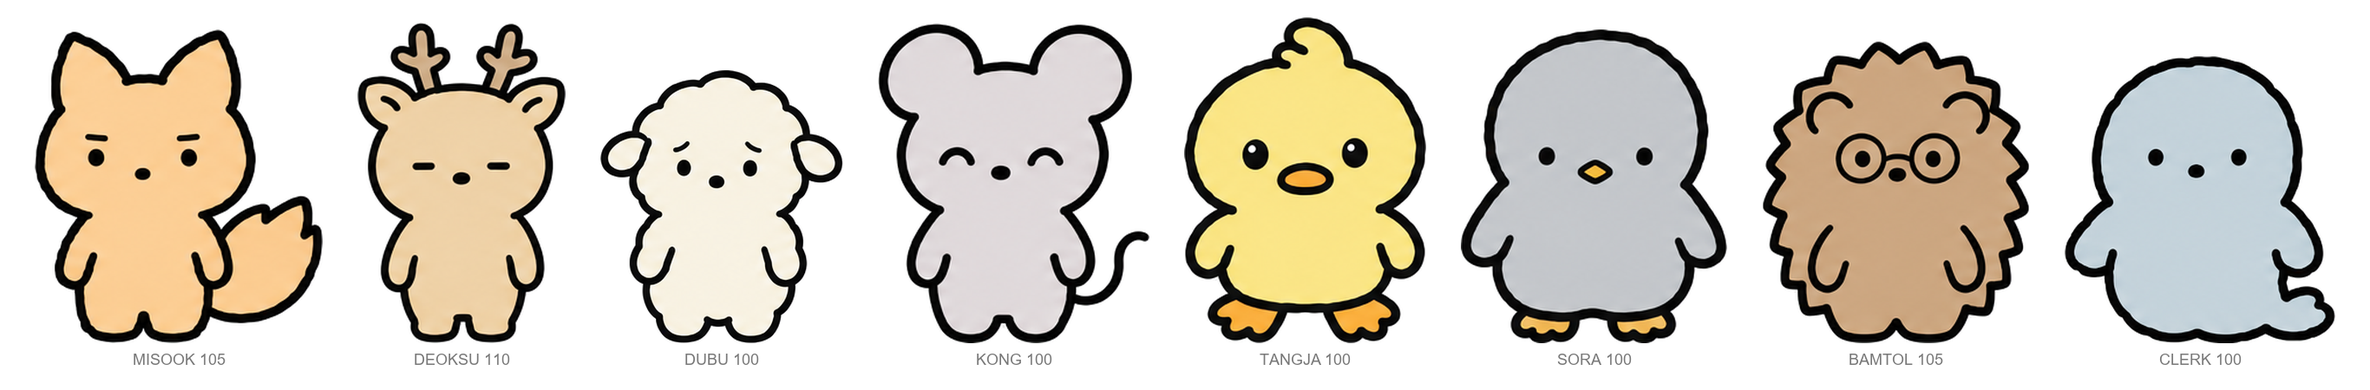
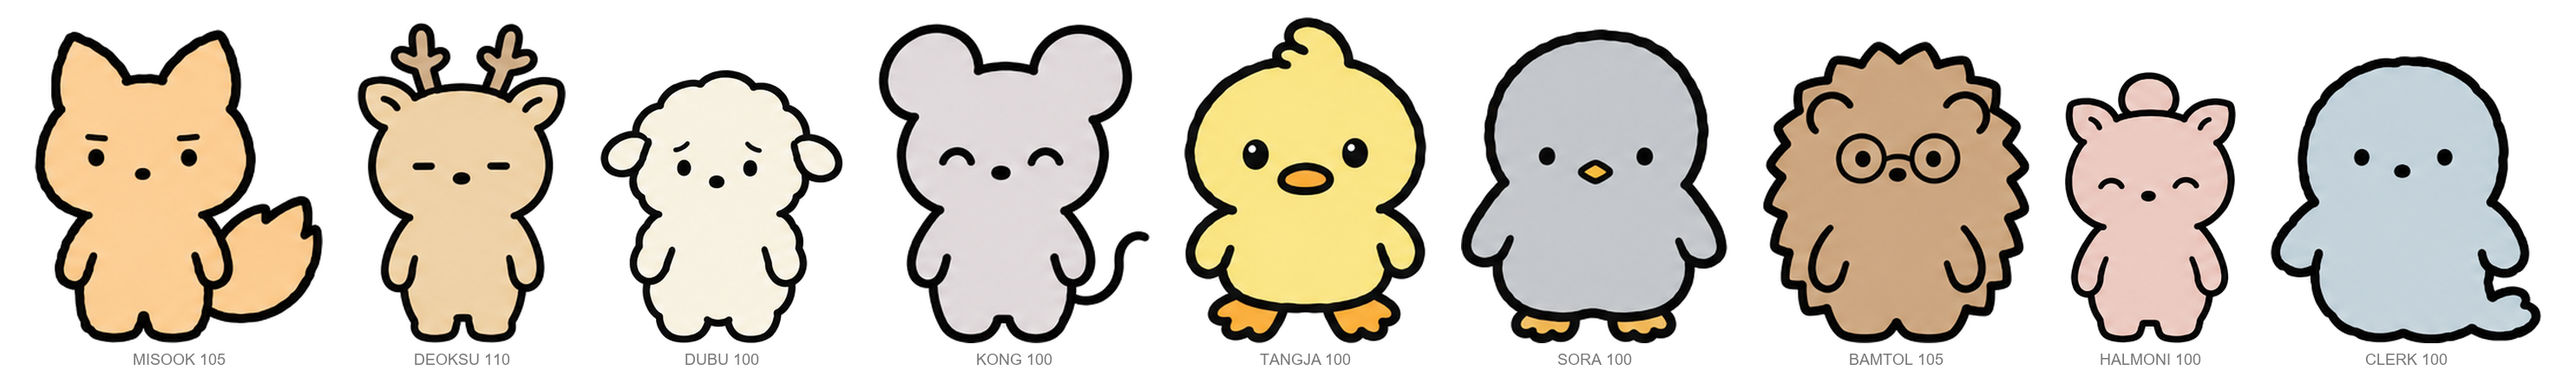
컨셉 전환: 특징 나열형(표지 1 + 특징 컷 5), 할머니 사슴 시트 추가, 불필요 규칙 제거
- CLAUDE.md·make-episode: 장점→단점→마무리 흐름, 위로·저장 문장, 일기체 내레이션, AI 말투 목록, 소품=능력, 재설계 규칙, 감정 기호 중복 금지, 톤 전환 폐지. 표지 부활, 특징 음슴체 한 줄, 먹구름 금지
- props.md 삭제, review_conti.py 검토 관점 교체
- 할머니: 선 샘플·시트(high, #EBCAC1), characters.md 8인, lineup·check_colors 등록, cast-sheets.html·index 갱신

diff --git a/assets/samples/cast-sheets.html b/assets/samples/cast-sheets.html
@@ -3,7 +3,7 @@
 <head>
 <meta charset="utf-8">
 <meta name="viewport" content="width=device-width,initial-scale=1">
-<title>확정 캐스트 시트 7장 + 크기 라인업</title>
+<title>확정 캐스트 시트 8장 + 크기 라인업</title>
 <link href="https://fonts.googleapis.com/css2?family=Gowun+Dodum&display=swap" rel="stylesheet">
 <style>
   body{margin:0;padding:40px 16px 80px;background:#EFEAE2;color:#3A3733;font-family:'Gowun Dodum','Malgun Gothic',sans-serif;line-height:1.6}
@@ -19,12 +19,12 @@
 </head>
 <body>
 <main>
-  <h1>확정 캐스트 시트 7장 + 크기 라인업</h1>
-  <p class="sub">gpt-image-2.5-sunburst · high · 1536×1024 · 7인 + 엑스트라 2장 공통 <b>검정 펠트펜 굵은 선</b>(매끈한 단색, 흔들림은 경로에만): 성격별 기본 얼굴 + 턴어라운드 4 + 코믹 포즈 8. 제작은 정면·측면 선 샘플(<code>&lt;이름&gt;-line-sample.png</code>) 먼저 → 그 샘플 + 깜자 1장만 참조로 시트. 연필 가는 선 안은 시도 후 기각. 모든 시트는 소품 없음(망토 등은 에피소드별 지정).</p>
+  <h1>확정 캐스트 시트 8장 + 크기 라인업</h1>
+  <p class="sub">gpt-image-2.5-sunburst · high · 1536×1024 · 8인 + 엑스트라 2장 공통 <b>검정 펠트펜 굵은 선</b>(매끈한 단색, 흔들림은 경로에만): 성격별 기본 얼굴 + 턴어라운드 4 + 코믹 포즈 8. 제작은 정면·측면 선 샘플(<code>&lt;이름&gt;-line-sample.png</code>) 먼저 → 그 샘플 + 깜자 1장만 참조로 시트. 연필 가는 선 안은 시도 후 기각. 모든 시트는 소품 없음(망토 등은 에피소드별 지정).</p>
 
   <h2>크기 라인업 (시트 FRONT 도를 잘라 합성, 생성 아님)</h2>
-  <img src="../cast/lineup-all.png" alt="7인 크기 라인업">
-  <p class="cap">역할 기준 크기 (주인공 100): 아빠 110 / 엄마 105 / 남친 105 / 동생·친구 100. 실제 동물 크기와 무관하며, 귀·뿔·털에 영향받지 않도록 <b>눈높이→발끝 거리</b>를 기준으로 맞춘다. <code>python scripts/lineup.py all --out …</code></p>
+  <img src="../cast/lineup-all.png" alt="8인 크기 라인업">
+  <p class="cap">역할 기준 크기 (주인공 100): 아빠 110 / 엄마 105 / 남친 105 / 동생·친구·할머니 100. 실제 동물 크기와 무관하며, 귀·뿔·털에 영향받지 않도록 <b>눈높이→발끝 거리</b>를 기준으로 맞춘다. <code>python scripts/lineup.py all --out …</code></p>
   <h2>동시 출연 참조 예시 — 두부 + 미숙</h2>
   <img src="../cast/lineup-example-dubu-misook.png" alt="두부 미숙 라인업" style="max-width:420px">
   <p class="cap">컷에 나오는 캐릭터만 골라 만든다: <code>python scripts/lineup.py dubu misook --out episodes/epNN/ref/lineup.png</code> → 컷 생성 시 <code>--ref</code>로 시트들과 함께 입력.</p>
@@ -50,6 +50,9 @@
   <h2>밤톨 — 남친 · 고슴도치 · 1.1배</h2>
   <img src="bamtol-sheet.png" alt="밤톨 시트">
   <p class="cap">기본 얼굴 = 점 눈 + 브릿지만 있는 동그란 안경. 2행: 팔짱 · 설명 손가락 · 안경 올리기 · 성큼성큼 · 3행: 공벌레 · 놀람(안경 삐뚤) · 생각 · 등 뒤 하트 · 프롬프트 <a href="bamtol-sheet-prompt.txt">bamtol-sheet-prompt.txt</a></p>
+  <h2>할머니 — 사슴 · 뿔 없음 · 쪽 머리</h2>
+  <img src="halmoni-sheet.png" alt="할머니 시트">
+  <p class="cap">기본 얼굴 = 웃는 호 눈 + 쪽 머리. 2행: 내밀기 · 머리 쓰다듬기 · 종종걸음 · 손 흔들기 · 3행: 기쁨 · 권하기 · 걱정 · 귀 기울이기 · 선 샘플 <a href="halmoni-line-sample.png">halmoni-line-sample.png</a> · 프롬프트 <a href="halmoni-sheet-prompt.txt">halmoni-sheet-prompt.txt</a></p>
   <h2>엑스트라 — 고양이 3인조 (주류 무리)</h2>
   <img src="cats-sheet.png" alt="고양이 3인조 시트">
   <p class="cap">핑크 · 라벤더 · 민트, 같은 디자인에 색만 다름 · 각 행: 턴어라운드 4 + 아니꼬운 곁눈질 · 프롬프트 <a href="cats-sheet-prompt.txt">cats-sheet-prompt.txt</a></p>

diff --git a/index.html b/index.html
@@ -32,7 +32,7 @@
 <body>
 <main>
   <h1>작은 힘에도 작은 책임은 따른다</h1>
-  <p class="sub">MBTI 유형별 성격적 단점을 "초능력"으로 재해석하는 일상 힐링 인스타툰.</p>
+  <p class="sub">MBTI 유형별 성격적 단점을 "초능력자 특징"으로 나열해 공감을 일으키는 인스타툰. 표지 1 + 특징 컷 5.</p>
 
   <h2>캐릭터</h2>
   <a class="card" href="assets/cast.html">
@@ -40,8 +40,8 @@
     <span>두부·미숙·덕수·콩·탱자·소라·밤톨 · 라인업 현재/제안 컬러</span>
   </a>
   <a class="card" href="assets/samples/cast-sheets.html">
-    <b>확정 캐스트 시트 7장 + 엑스트라 2장 + 크기 라인업</b>
-    <span>두부·미숙·덕수·콩·탱자·소라·밤톨 (굵은 펜선 · 성격별 기본 얼굴 + 턴어라운드 4 + 코믹 포즈 8) + 고양이 3인조·점원 · 크기 라인업</span>
+    <b>확정 캐스트 시트 8장 + 엑스트라 2장 + 크기 라인업</b>
+    <span>두부·미숙·덕수·콩·탱자·소라·밤톨·할머니 (굵은 펜선 · 성격별 기본 얼굴 + 턴어라운드 4 + 코믹 포즈 8) + 고양이 3인조·점원 · 크기 라인업</span>
   </a>
 
   <a class="card" href="assets/samples/dubu-sheet.html">

diff --git a/assets/samples/make_cast_prompts.py b/assets/samples/make_cast_prompts.py
@@ -1,4 +1,4 @@
-"""조연 6인 선 샘플·시트 프롬프트 생성.  python assets/samples/make_cast_prompts.py
+"""조연 선 샘플·시트 프롬프트 생성.  python assets/samples/make_cast_prompts.py
 산출: assets/samples/<이름>-line-sample-prompt.txt, <이름>-sheet-prompt.txt
 """
 import os
@@ -10,7 +10,7 @@ LINE = """LINE QUALITY (most important):
 - Flat fill, no shading, no gradients, no paper texture, no noise."""
 
 SAMPLE = """Reference images:
-- The FIRST image is the CHARACTER to draw: {who}. Reproduce this exact body design, but with the default face described below.
+- {sample_head}
 - The SECOND image is a STYLE reference only (the Korean instatoon dog "Kkamja"): copy its line quality - but NOT its character or color.
 
 {line}
@@ -152,9 +152,31 @@ STARTLED (leaning back, glasses tilted slightly askew on the face, eyes as bigge
 THINKING (sitting on the floor, chin resting on one hand, elbow on knee, dot eyes behind the glasses, one very short line above the head);
 SOFT MOMENT (standing stiffly facing front with both hands behind the back, eyes as closed upward arcs behind the glasses, one tiny pale pink outline heart floating low behind his back).""",
 ),
+"halmoni": dict(
+    who="a dusty-rose grandmother deer, Dubu's grandma (no antlers, small hair bun)",
+    sample_head="The FIRST image shows a deer character from this project (Deoksu, the dad). Use it ONLY for the deer body grammar (potato body, small upright ears, tiny tail, dot nose) and the line quality. Draw a DIFFERENT character described below: the grandmother - NO antlers, different color, a hair bun, a slight stoop.",
+    side_note="one closed upward-arc eye visible, small upright ear, the round hair bun on top of the head, back slightly rounded",
+    design="""Grandma deer design (identical in all figures):
+- dusty rose #EBCAC1 body, ONE solid color everywhere including face, ears and the hair bun. No spots, no white belly, no darker muzzle
+- 2-head-tall potato body, stubby limbs, tiny tail, small upright deer ears, and NO ANTLERS at all. On top of the head one small round HAIR BUN (a simple circle in the body color with a black outline, sitting between the ears), exactly the same bun in every figure
+- posture: back slightly rounded, shoulders soft, hands often held together in front - a small, gentle old lady
+- DEFAULT FACE: eyes drawn as two closed upward-curving black arcs set wide apart (a warm, benevolent smile), one small dark dot nose. NO MOUTH, NO BLUSH, no eyelashes, no glasses, no clothes, no props
+- The smiling arc eyes are her default in almost every figure. Only when a caption says so the eyes open into small round dots (worry) or ">.<"
+- personality: the grandmother. Endlessly kind, keeps giving more, cannot be refused. Her warmth is unstoppable""",
+    row2="""OFFERING (leaning forward with both hands held out in front, palms up, as if handing something over, smiling arc eyes, one tiny sparkle);
+HEAD PAT (reaching one hand out and slightly down as if patting a grandchild's head, other hand behind the back, arc eyes);
+SHUFFLING (seen from the side, walking with small careful steps, back rounded, hands clasped in front, two short motion lines by the feet);
+WAVING GOODBYE (standing facing front, one hand raised high waving with small motion lines, other hand clasped at the chest, arc eyes).""",
+    row3="""DELIGHTED (both hands clasped together at the chest, arc eyes, three small sparkles around the head);
+INSISTING (leaning forward, one hand gently pushing forward at chest height as if pressing something on someone, arc eyes, short motion lines by the hand);
+WORRIED (eyes opened into small round dots, both hands held together at the chest, body leaning slightly forward, one sweat drop);
+LISTENING (head tilted to one side, one hand cupped behind an ear, arc eyes, one tiny heart floating beside the head).""",
+),
 }
 
 for n, c in CAST.items():
+    c = dict(c)
+    c.setdefault("sample_head", f"The FIRST image is the CHARACTER to draw: {c['who']}. Reproduce this exact body design, but with the default face described below.")
     with open(os.path.join(HERE, f"{n}-line-sample-prompt.txt"), "w", encoding="utf-8") as f:
         f.write(SAMPLE.format(line=LINE, **c))
     with open(os.path.join(HERE, f"{n}-sheet-prompt.txt"), "w", encoding="utf-8") as f:

diff --git a/scripts/lineup.py b/scripts/lineup.py
@@ -3,7 +3,7 @@
 
   python scripts/lineup.py dubu misook --out episodes/ep02/ref/lineup.png
   python scripts/lineup.py all --out assets/cast/lineup-all.png
-이름: dubu misook deoksu kong tangja sora bamtol clerk (고양이 3인조 시트는 3행이라 미지원)
+이름: dubu misook deoksu kong tangja sora bamtol halmoni clerk (고양이 3인조 시트는 3행이라 미지원)
 """
 import argparse, os
 import numpy as np
@@ -17,9 +17,10 @@ CAST = {  # 이름: (시트, 상대 크기, 캡션)
     "tangja": ("assets/samples/tangja-sheet.png", 1.0, "TANGJA 100"),
     "sora":   ("assets/samples/sora-sheet.png",   1.0, "SORA 100"),
     "bamtol": ("assets/samples/bamtol-sheet.png", 1.05, "BAMTOL 105"),
+    "halmoni": ("assets/samples/halmoni-sheet.png", 1.0, "HALMONI 100"),
     "clerk":  ("assets/samples/clerk-sheet.png",  1.0, "CLERK 100"),
 }
-ORDER = ["misook", "deoksu", "dubu", "kong", "tangja", "sora", "bamtol", "clerk"]
+ORDER = ["misook", "deoksu", "dubu", "kong", "tangja", "sora", "bamtol", "halmoni", "clerk"]
 BASE_H = 210  # 크기 1.0 캐릭터의 얼굴 기준선→발끝 픽셀 거리 (귀·뿔·털 제외, 역할 기준 크기)
 
 

diff --git a/scripts/check_colors.py b/scripts/check_colors.py
@@ -1,7 +1,7 @@
 """생성된 컷에서 캐릭터 바디 색이 시트 hex와 얼마나 다른지 잰다.
 
   python scripts/check_colors.py episodes/ep05/img/cut4.png dubu bamtol
-이름: dubu misook deoksu kong tangja sora bamtol clerk (assets/characters.md 1절의 hex)
+이름: dubu misook deoksu kong tangja sora bamtol halmoni clerk (assets/characters.md 1절의 hex)
 출력: 캐릭터별 실제 우세 색과 시트 hex의 채널 최대 차. ±12 안에 큰 영역이 없으면 색이 틀어진 것.
 """
 import sys
@@ -10,7 +10,7 @@ from PIL import Image
 
 SHEET = {
     "dubu": "#F6F2E6", "misook": "#F6CA9E", "deoksu": "#EACEAA", "kong": "#DED6DA",
-    "tangja": "#F5E08C", "sora": "#C2C6CA", "bamtol": "#C9A582", "clerk": "#BCD0DA",
+    "tangja": "#F5E08C", "sora": "#C2C6CA", "bamtol": "#C9A582", "halmoni": "#EBCAC1", "clerk": "#BCD0DA",
 }
 TOL = 12  # 이 안의 픽셀만 그 캐릭터로 봄 (더 넓히면 이웃 캐릭터·회색을 집는다)
 

diff --git a/.claude/skills/make-episode/SKILL.md b/.claude/skills/make-episode/SKILL.md
@@ -1,92 +1,55 @@
 ---
 name: make-episode
-description: 「작은 힘에도 작은 책임은 따른다」 에피소드 1편 제작 — MBTI 유형의 단점을 초능력으로 재해석한 4~7컷 캐러셀. 콘티 → 컷 이미지 생성 → 텍스트 합성 → 프리뷰 → 캡션. "에피소드 만들어", "EP.02", "INTJ 편", "콘티 짜줘", "컷 생성" 등에 사용.
+description: 「작은 힘에도 작은 책임은 따른다」 에피소드 1편 제작 — MBTI 유형의 단점을 "초능력자 특징"으로 나열한 표지 1 + 특징 컷 5 = 6장 캐러셀. 특징 리스트 → 컷 이미지 생성 → 텍스트 합성 → 프리뷰 → 캡션. "에피소드 만들어", "EP.02", "INTJ 편", "콘티 짜줘", "컷 생성" 등에 사용.
 ---
 
 # make-episode
 
-입력: MBTI 유형 1개 (+ 선택: 다룰 단점 특징, 폰트 지정). 산출물은 `episodes/epNN/`.
+입력: MBTI 유형 1개 (+ 선택: 다룰 특징, 폰트 지정). 산출물은 `episodes/epNN/`.
 
 ## 1. 기획 규칙
 
-규칙은 검문소지 출발점이 아니다. 웃긴 그림 하나에서 시작해 규칙으로 걸러낸다.
-
-- **핵심 컷 먼저 (내레이션 쓰기 전).** ① 이 유형이 가장 찔리는 **작은 구체 상황** 후보 10개를 나열하고 가장 작고 일상적인 것 하나를 고른다 (미용실 "이 정도면 될까요?"에 "네", 잘못 온 배달을 그냥 먹기, 점원의 "같이 사면 할인"에 열리는 지갑 급. 가족 심부름·큰 부탁은 밋밋하다). ② 그 상황을 한 단계 과장한 **그림 1장**을 정한다 — 이것이 공유 컷이다. ③ 제목·소품·핵심 상황·핵심 그림 네 가지를 **표보다 먼저 사용자에게 보고해 승인받은 뒤** 나머지 컷을 붙인다. 6컷을 다 쓰고 통째로 버리는 일을 막는 관문이다.
-- **소품 시험.** 소품은 능력 그 자체여야 한다(학사모=졸업, 이불=집순이). 소품을 지웠을 때 바뀌는 컷이 하나도 없으면 장식이므로 소품과 제목을 다시 잡는다.
-- **재설계 규칙.** 같은 콘티에 컨셉 수준의 지적이 2번 이상 오면 문제 컷만 갈아 끼우지 않는다 — 핵심 컷 선정부터 다시 시작한다. 패치를 거듭한 콘티는 규칙엔 맞고 재미는 없는 짜깁기가 된다.
-- **제목** = 그 유형의 통용되는 단점을 능력처럼 바꾼 후킹 카피 = 초능력 이름. 형식 `[…] 초능력`. 예: INFP 「알고 싶지 않은 마음까지 읽을 수 있는 초능력」. **표지는 만들지 않는다** — 1컷 내레이션 안에 초능력 이름을 그대로 넣어 바로 시작하고, 합성 때 그 이름만 포인트 컬러 볼드로 강조한다. 시리즈명은 1컷 상단에 작게 `- 작은 힘에도 작은 책임은 따른다 -`(앞뒤 하이픈)로 넣는다.
-- **MBTI는 작품 어디에도 쓰지 않는다** (컷·캡션·해시태그). 유형은 기획 입력값일 뿐이다.
-- 내용은 해당 유형 독자가 "이거 나잖아"라고 느껴야 한다. 유형 밈이 아니라 **구체적 상황**(약치기그림식)으로 쓴다.
-- **내레이션은 두부(20대 여성)가 일기장에 쓰는 자기 관찰이다.** 독자에게 설명하는 글이 아니라 자기한테 하는 말 — 쉬운 말, 짧은 문장, 살짝 귀엽고 스스로를 놀리는 투. **내용은 그날의 사건이 아니라 반복되는 습관**("부탁 받으면 일단 고개부터 끄덕인다", "왜 맨날 이러지"). 어미는 현재형·습관형(`~한다`, `~하더라`, `~하게 된다`, `~할 때마다`)과 혼잣말(`아 근데`, `왜 그랬지`, `뭐 어떡해`)을 섞는다. **과거형 특정 사건(`그날`, `어제`, `~했다`)은 쓰지 않는다** — 남의 일기가 되고 그림이 삽화로 전락한다. 그 습관의 구체적인 한 장면은 그림과 대사가 맡는다. 예외는 마지막 컷의 상대에게 던지는 한마디. 귀여움은 애교 어미(`~용`)나 `ㅠㅠ`가 아니라 작은 디테일(베개 자국, 눌린 털)·솔직한 투정·자기 놀림에서 나온다. 1인칭 "나는"만 쓰고 "우리는"·3인칭 설명("이 유형은 …")은 쓰지 않는다. **컷당 2줄 고정**(긴 줄은 합성 시 자동 축소). **캐릭터 이름 금지**(친구·엄마·동생 등 관계로 지칭; 이름은 대사·CTA에서만). **느낌표 금지** — 감정의 높낮이는 대사가 맡는다. CTA만 독자에게 말한다.
-- **속마음 대사를 적극 쓴다.** 필수는 아니지만 내레이션만으로 끝내는 컷을 기본값으로 두지 않는다 — 상황이 있는 컷(2–6)은 캐릭터 옆에 짧은 속마음 한 줄을 붙일 수 있는지 먼저 살핀다. 내레이션은 상황을, 속마음은 그 순간의 감정·본심을 맡아 둘이 겹치지 않게 한다. 조연 대사도 같은 방식으로 캐릭터 옆에 놓는다.
-- **이모지 금지** (컷·캡션·CTA 전부).
-- **4~7컷 = 컷당 1장**. 컷 수는 이야기 길이에 맞춰 정하고 콘티 상단에 적는다 — 7을 채우려고 늘리지 않는다.
-
-| 컷 | 역할 | 비고 |
-|---|---|---|
-| 1 | 초능력 설명 — 내레이션 2줄 안에 초능력 이름을 통째로 넣는다. 예: "나에겐 어떤 취미든 / 3일 만에 졸업할 수 있는 초능력이 있다." | 초능력 이름만 포인트 컬러 볼드, 나머지는 담담한 내레이션 |
-| 2–(끝-1) | 흐름만 고정: **장점(능력이 남에게 좋게 작용, 조연이 수혜자) → 단점 첫 등장 → 단점 심화**. 컷 배분은 에피소드마다 정한다. 장점은 보통 1–2컷이면 충분하다. 상황 컷과 속마음 컷의 순서도 자유. | **단점 첫 등장 컷 = 공유 유도 컷.** 가장 구체적이고 찔리는 상황, "이거 너잖아" 하고 친구에게 보내게 되는 컷. 여기에 가장 공을 들인다 |
-| 끝 | 마무리 = **저장 유도 문장** + 태그 CTA | "그래도 그 능력 덕분에 누군가는…" 한 줄 위로 → "당신 옆의 초능력자를 태그해 주세요". **앞 컷에서 이미 보여 준 내용의 반복 금지** — 반전이나 새로 드러나는 사실로 |
-
-톤 전환: 장점 구간 밝음 → 단점 구간 저채도 → 마지막 컷 망토 + 포인트 컬러 복귀.
-
-- **내레이션의 비유는 실제 경험을 정확히 옮기는 것만.** 코믹한 묘사·비유는 내레이션에서도 좋다(EP.03 "약속 파토는 총잡이들의 결투 같은 거다" = 둘 다 파토 내고 싶은데 누가 먼저 말하나 눈치 보는 순간을 그대로 옮김). 반면 초능력 이름의 말장난이나 발동 방식을 억지로 이어 붙인 컨셉("'싫어'는 '시'까지만 나온다", "번역기에 끄는 버튼이 없다")은 누구도 겪어 본 적 없는 상황이라 웃기지도 찔리지도 않는다. 비유를 쓰기 전에 "이 유형 독자가 실제로 이 순간을 이렇게 느끼는가"를 먼저 확인하고, 아니면 비유 없이 느낀 그대로 쓴다. **비유는 한 컷 안에서 끝낸다** — 다음 컷의 내레이션·대사·마무리 위로까지 같은 비유로 끌고 가지 않는다(EP.07 초안 "손이 올라간다→낙찰→발→손이 저절로" X). 나머지 컷은 비유 없는 실제 상황으로.
-- **기본 톤은 코믹.** 공감은 웃음 뒤에 따라오게 한다 — 단점은 처량하게가 아니라 **과장·자폭 개그**로 그린다(상황을 한 단계 더 밀어붙이기, 속마음의 자기 변명·궤변, 조연의 무표정 리액션·한마디 태클). 컷마다 웃음 포인트가 하나씩 있는지 보고, 진지한 문장은 마지막 컷 위로 한 줄에만 허용한다. 단점 구간의 마지막 컷도 우울로 마감하지 않고 한 번 더 자폭으로 끝낸다(EP.06 6컷 창가 먹구름 X).
-
-
-- **콘티 보고.** 콘티를 짜면 채팅에 컷별 [장면 / 내레이션 / 대사(속마음)] 세 열을 모두 담은 표로 보고한다 — 파일 경로만 알리거나 일부 열을 생략하지 않는다.
-- **콘티 검증 (1회, 프롬프트 작성 전).** 콘티를 다 쓴 뒤 장면·내레이션·대사 세 열을 **각각 따로** 1→끝으로 이어 읽는다.
-  - 내레이션만: 컷마다 한 줄로 요약해 같은 요약이 둘이면 하나를 지우거나 다음 단계로 밀어붙인다. 연결어(하지만·사실·그런데·…지만)가 실제 반전을 담는가. 단점은 능력의 반대가 아니라 같은 능력이 잘못된 자리에서 발동한 것이므로, 3→4가 반대 관계가 아닌데 역접으로 잇거나 3 끝 `…지만`과 4 첫머리 `하지만`이 겹치면 억지 역접이다. 소리 내 읽고 **"20대 여자애가 일기장에 진짜 이렇게 쓰나"**를 묻는다 — 아니면 그 줄을 다시 쓴다. 특히 아래 패턴은 현학적·AI 문장으로 읽혀 독자가 불쾌해한다:
-    - 한자어·추상명사로 상황을 요약 `자비를 베풀다`, `명예롭게 패배`, `나중 문제다`, `손해를 자처`, `선택을 후회`
-    - 격언·정의 어미 `~는 것이다`, `~일 뿐이다`, `~는 법이다`; 짧은 단정문 연속 `값을 듣기도 전에 손이 먼저 올라간다.`
-    - 문어체 명사구 `우는 친구의 전화`, `부탁을 받는 순간` → 일어난 일로 풀어 쓴다 `친구가 울면서 전화했다`
-    - 재정의 위로 `A는 B가 아니라 C다` (예: "지는 게 아니라 시간을 주는 거야"), `~라는 거 알죠?`
-    - 자기 진단 명사화 `나는 ~한 사람이라`, `~하는 나`
-    - 깨달음 서술 `~란 걸 깨닫고`, `~인 셈이다`, `~일지도 모른다`
-    - 감성 부사 `문득·조용히·천천히·그저·어쩌면·작은`, 추상어 마무리 `마음·온기·속도·시간·자리`
-    - 능력을 서술자가 논평 `이 능력은 오늘도 정확히 발동한다`
-    - 번역투 `~에 있어서`; 같은 어미 3연속
-    대신 **그날 있었던 일과 그때 든 생각**을 일기처럼 쓴다. X "내가 피곤한 건 나중 문제다." → O "내일 아침 일찍인데 뭐, 그건 내일의 내가 하겠지." / X "먼저 총을 맞는 사람이 명예롭고 즐겁게 패배하는 것이다." → O "먼저 맞는 쪽이 지는 건데 이상하게 기분은 좋다." 마지막 컷 위로도 정리·격언이 아니라 상대에게 던지는 말 한마디로.
-  - 대사만: 내레이션과 같은 정보를 반복하지 않는가, 그 컷의 펀치를 대사가 맡는가. 그 캐릭터가 그 순간 실제로 내뱉을 법한 길이·어투인가 — 완결된 문장보다 짧은 반응("아 진짜?", "…또?")이 자연스러운 자리에 설명조 대사가 있으면 줄인다.
-  - 장면만: 내레이션 없이 그림만으로 상황이 성립하는가, 라벨이 내레이션과 중복되지 않는가. **내레이션을 가리고 그림만 봐서 웃음 포인트가 없는 컷은 삽화다** — 과장 장치를 넣거나 컷을 버린다. 단점 구간 컷 중 최소 2컷은 그림 자체가 웃겨야 한다.
-  - 문제 컷은 고친 뒤 넘어간다.
-- **독립 리뷰 (Codex, 자체 검증 뒤 1회).** `python scripts/review_conti.py epNN` → 다른 모델이 콘티·규칙·이전 편을 읽기 전용으로 검토해 `episodes/epNN/review.md`를 쓴다 (약 5~10분, 작성 세션의 판단은 넘기지 않는다). 항목마다 **반영 또는 기각 사유**를 정해 콘티를 고친 뒤 프롬프트로 넘어간다. 기각한 항목은 review.md 해당 줄 끝에 `→ 기각: 이유`를 붙인다. 리뷰 파일은 커밋한다.
+- **구성 = 표지 1 + 특징 컷 5 = 6장.** 표지: 제목(초능력 이름) + 두부 그림. 특징 컷: 번호 + 특징 한 줄 + 그 특징을 한 단계 과장한 그림 1장. 컷끼리 서사로 잇지 않고 나열한다. 순서는 가장 보편적으로 찔리는 것부터, 설명이 필요한 것은 뒤로.
+- **제목** = 그 유형의 통용되는 단점을 능력처럼 바꾼 후킹 카피. 형식 `[…] 초능력자 특징`. 예: 「No를 Yes로 바꿔 말하는 초능력자 특징」. 핵심 구절만 포인트 컬러 볼드.
+- **특징 문장**은 짧은 음슴체 한 줄 (`보험 100개 있음`, `스팸 전화 못 끊음`). 캐릭터 이름 금지(할머니·동생·친구 등 관계어), 느낌표·이모지 금지. MBTI는 작품 어디에도 쓰지 않는다.
+- **그림이 펀치다.** 특징 문장을 가리고 그림만 봐서 웃기지 않으면 삽화다 — 과장 장치를 넣거나 특징을 바꾼다. 조연은 그 특징이 드러나는 상황을 공급한다(콩 = 눈치 없는 한마디, 탱자 = 오지랖, 할머니 = 거절 못 하는 호의).
+- **대사·속마음**은 캐릭터 옆에 짧게 (`중요한 전화야?`, `재밌어요`). 특징 문장과 같은 정보를 반복하지 않는다.
+- **콘티 보고.** 채팅에 컷별 [장면 / 특징 / 대사] 세 열을 모두 담은 표로 보고한다 — 열 생략 금지. 표 승인 후 생성.
+- **독립 리뷰 (Codex, 1회).** `python scripts/review_conti.py epNN` → `episodes/epNN/review.md`. 항목마다 반영 또는 `→ 기각: 이유`를 붙이고 커밋.
 
 ## 2. 이미지 규칙
 
-- 생성은 **캐릭터 + 소품만**. 프롬프트 끝에 항상 `No text, no letters, no speech bubbles, no captions. Plain white background. One flat light-gray #E6E6E6 ellipse on the ground under each standing character and under any large object resting on the ground, as a contact shadow; no other shadows, no shading on the bodies.` (접지 그림자는 EP.03부터. 공중에 뜬 캐릭터는 그 컷 프롬프트에서 제외 명시.) 말풍선 꼬리가 캐릭터와 안 맞는 문제가 있어 **말풍선은 절대 그리지 않는다** — 속마음도 텍스트 합성으로.
-- 참조: 등장 캐릭터 시트 `assets/samples/<이름>-sheet.png`(두부 dubu, 미숙 misook, 덕수 deoksu, 콩 kong, 탱자 tangja, 소라 sora, 밤톨 bamtol) → **2명 이상 동시 출연이면** `python scripts/lineup.py dubu misook --out ref/lineup.png`로 그 컷의 캐릭터만 담은 크기 라인업을 만들어 다음 참조로 . **깜자 스타일 이미지는 캐릭터 시트 제작용이지 컷 생성엔 넣지 않는다** (시트가 이미 그 문법을 담고 있음). 각 시트 프롬프트(`<이름>-sheet-prompt.txt`)의 **LINE QUALITY 블록과 design 블록**을 프롬프트 헤더로 복사하고, 라인업이 있으면 "the lineup image shows their relative sizes"를 덧붙인다.
-- 캐스트·크기·색은 `assets/characters.md` 1절.
-- **캐릭터 색은 hex로 고정한다.** 프롬프트의 design 블록에 시트 hex를 반드시 적고(EP.04 `build_prompts.py`의 블록이 기준), 생성 후 `python scripts/check_colors.py img/cutN.png dubu bamtol`로 바디 색을 잰다 — 시트 hex ±12 안의 영역이 없으면 그 컷은 재생성. 단점 컷의 `.dim`(CSS saturate .7)은 캐릭터 색까지 바꾸므로 색 일관성이 우선인 컷은 `.dim`을 빼고 프롬프트의 "muted"만 쓴다.
-- **군중·행인(이름 없는 다수)은 시트 없이 프롬프트 문구를 고정**해서 그린다 (참조 이미지가 늘수록 결과가 흐려짐): `a crowd of many small featureless people-shaped silhouettes in flat medium gray, no faces, no details` — 사람 형태여도 된다. 대사·속마음이 있는 엑스트라만 종을 정해 시트를 만든다.
-- 초능력 발동(1·장점 컷·마지막): 에피소드 소품 + 반짝이. 소품은 `assets/props.md`에서 기존 편과 종류·색이 겹치지 않게 정하고 콘티 전에 표에 추가한다. 색은 크림색 몸과 대비되게 **화려해도 좋다**(EP.01 연두+보라 선글라스). 착용 위치를 프롬프트에 명시(선글라스는 눈을 덮게). **소품은 매 컷 넣지 않고 장면에 필요한 컷에만** 쓰며, 콘티 상단에 쓰는 컷 번호를 적는다. 마지막 컷 망토 `#C77B3F`는 공통. 단점 컷: 감정 기호. **감정 기호(먹구름·땀방울·낙서 소용돌이·세로 그늘선·눈물·하트·반짝이 등)는 한 에피소드 안에서 컷마다 다른 것을 쓰고 중복시키지 않는다** — 콘티의 속마음 열에 `감정: ○○`로 컷별 배정을 적고 프롬프트에 그 하나만 넣는다. 먹구름은 편당 1컷까지.
-- **밈·명장면 활용**: 콘티에서 내레이션을 다 쓴 뒤, 장면 구상 전에 `assets/memes.md`를 한 번 훑어 상황에 맞는 것이 있으면 캐릭터 연기·구도로 옮긴다(그림 쪽만, 내레이션엔 안 씀. 억지로 끼우지 않음. **밈을 모르는 독자에게도 장면이 성립해야 한다** — 밈은 덤이지 장면의 전제가 아니다). 프롬프트 요점에 `밈: ○○`로 적고, 쓴 항목은 `memes.md`에서 지워 `memes-used.md`로 옮긴다(한 번 쓴 밈은 다른 컷·에피소드에서 재사용 금지). 웹 검색은 하지 않는다 — 리스트는 매월 갱신.
-- **사회생활 컷**: 캐릭터가 겉으로 웃거나 예의상 멘트를 하는데 진짜 속마음이 다르면, 그림에 속마음 장치를 함께 넣는다 — 등 뒤로 숨긴 손의 주먹·브이, 살랑거리는 꼬리, 등 뒤로 새는 반짝이, 작은 생각 구름(안의 글자는 합성) 등. 콘티 속마음 열에 `속마음 장치: ○○`로 적는다.
-- **구도 다양화**: 정면 나열(테이블 뒤에 일렬로 앉아 카메라를 보는 식)이 기본값이 되지 않게 한다. 콘티 프롬프트 요점에 `구도: ○○`로 컷별 배정을 적고, 프롬프트 첫 문장에 카메라를 명시한다 — 예: 측면(side view, profile), 3/4 뒤에서(seen from behind over Dubu's shoulder), 약간 위에서 내려다봄(high angle looking down at the table), 낮은 앵글(low angle from floor level), 얼굴·소품 클로즈업(extreme close-up on the menu and her hands), 한 명만 크게 + 나머지 멀리(Dubu large in the foreground, others small in the back). 정면 구도는 **편당 3컷 이하**, 같은 구도가 연속 두 컷에 오지 않게 한다. 좌석 배치·소품 위치가 앵글에 따라 바뀌므로 그 컷의 참조 시트는 그대로 두되 lineup 이미지는 크기 참고용임을 문구로 남긴다.
-- 텍스트가 들어갈 여백을 프롬프트로 확보: 내레이션 컷은 `character in the lower half, upper 40% empty`.
-- 생성: `python scripts/gen_image.py --prompt-file prompts/cutN.txt --ref assets/samples/dubu-sheet.png [--ref assets/samples/misook-sheet.png --ref ref/lineup.png] --out img/cutN.png` — **전부 `medium`** (`high` 금지). `.env` 로드 필요(`docs/env-setup.md`).
+- 생성은 **캐릭터 + 소품만**. 프롬프트 끝에 항상 `No text, no letters, no speech bubbles, no captions. Plain white background. One flat light-gray #E6E6E6 ellipse on the ground under each standing character and under any large object resting on the ground, as a contact shadow; no other shadows, no shading on the bodies.` (공중에 뜬 캐릭터는 제외 명시.) **말풍선은 절대 그리지 않는다** — 대사도 텍스트 합성.
+- 참조: 등장 캐릭터 시트 `assets/samples/<이름>-sheet.png`(두부 dubu, 미숙 misook, 덕수 deoksu, 콩 kong, 탱자 tangja, 소라 sora, 밤톨 bamtol, 할머니 halmoni) → **2명 이상 동시 출연이면** `python scripts/lineup.py dubu kong --out ref/lineup.png`로 크기 라인업을 만들어 다음 참조로. 깜자 이미지는 컷 생성에 넣지 않는다. 각 시트 프롬프트(`<이름>-sheet-prompt.txt`)의 **LINE QUALITY 블록과 design 블록**을 프롬프트 헤더로 복사하고, 라인업이 있으면 "the lineup image shows their relative sizes"를 덧붙인다.
+- 캐스트·크기·색은 `assets/characters.md` 1절. **캐릭터 색은 hex로 고정** — design 블록에 시트 hex를 적고 생성 후 `python scripts/check_colors.py img/cutN.png dubu kong`으로 잰다. 시트 hex ±12 안의 영역이 없으면 재생성.
+- **군중·행인**은 시트 없이 고정 문구: `a crowd of many small featureless people-shaped silhouettes in flat medium gray, no faces, no details`. 대사가 있는 엑스트라만 종을 정해 시트를 만든다.
+- 표지: 두부 + 망토 `#C77B3F`, 소심하게 긴장한 자세. 특징 컷은 감정 기호(땀방울·눈물·낙서 소용돌이·세로 그늘선·하트·반짝이) 자유. **먹구름은 쓰지 않는다.**
+- **밈·명장면**: 특징을 정한 뒤 `assets/memes.md`를 한 번 훑어 맞는 것이 있으면 연기·구도로 옮긴다(억지로 끼우지 않음, 밈 모르는 독자에게도 성립해야 함). 프롬프트 요점에 `밈: ○○`, 쓴 항목은 `memes-used.md`로 이관(재사용 금지). 웹 검색 금지.
+- **속마음 장치**: 겉으로 웃는데 속이 다르면 그림에 장치를 넣는다 — 등 뒤 주먹, 살랑거리는 꼬리, 찡그린 얼굴로 댓글 달기 등. 콘티 대사 열에 `장치: ○○`.
+- **구도 다양화**: 프롬프트 요점에 `구도: ○○`를 적고 첫 문장에 카메라를 명시(side view / from behind over the shoulder / high angle / low angle / close-up / one large in foreground). 정면 구도 편당 3컷 이하, 같은 구도 연속 금지.
+- 배경 흰색, 소품 1~2개로 장소를 표현한다(바닷가 = 파라솔 + 튜브). 텍스트 여백: `character in the lower half, upper 40% empty`.
+- 생성: `python scripts/gen_image.py --prompt-file prompts/cutN.txt --ref assets/samples/dubu-sheet.png [--ref …-sheet.png --ref ref/lineup.png] --out img/cutN.png` — **전부 `medium`**. `.env` 로드 필요(`docs/env-setup.md`).
 
 ## 3. 텍스트 합성
 
-- `episodes/epNN/compose.html` — 슬라이드 7장을 각각 1080×1350 `<section>`으로. 이미지는 1024×1536 생성본을 중앙 1024×1280 크롭(`object-fit:cover`).
-- 폰트: 본문(내레이션·속마음·CTA) **교보손글씨 2019** 확정, 내레이션은 가운데 정렬. `@font-face`는 `assets/fonts.html`에서 복사.
-- 1컷: 시리즈명을 `.series`(top 40px, 34px 회색)로 두고 내레이션은 그 아래(top 110px). 내레이션 안의 초능력 이름은 `<b>`로 감싸 포인트 컬러 볼드(`.narr b{font-weight:700;color:var(--point)}`), 줄바꿈이 이름 중간에 와도 된다.
-- 컷: 상단 내레이션, **줄바꿈은 콘티에 적힌 그대로** (임의로 줄 수를 늘리지 않는다). 크기는 레퍼런스 실측(솜비 글자 높이 56px, 서밤 40px) 기준 내레이션 **56px**, 긴 줄은 그 슬라이드만 폭에 맞춰 자동 축소. 속마음·대사 **40px** 회색, 말풍선·박스 없이 캐릭터 옆에. CTA는 **하단(bottom 44px) 40px 볼드 포인트 컬러, 양옆에 활자 하트 `♥`**(이모지 아님) — 그림이 바닥까지 닿을 때만 상단으로 올린다. 스타일은 `episodes/ep03/compose.html`의 `.cta` 그대로.
-- Playwright MCP로 각 `<section>`을 `img/slideN.png`(N=1..7, 컷 번호와 같음)로 스크린샷 (viewport 1080×1350, `clip`). MCP 브라우저가 사용 중이면 `chrome-headless-shell.exe --headless --window-size=1080,1350 --virtual-time-budget=10000 --screenshot=img/slideN.png compose.html?only=N` (`?only`는 0부터 세므로 slideN은 `?only=N-1`; compose.html에 그 슬라이드만 남기는 스크립트로 처리).
-- 이미지 크롭은 `object-position:50% 100%`(하단 기준)로 발이 안 잘리게 한다. 그림은 **80%로 축소**해 하단 60px·좌우 여백을 두고(`transform:scale(.8)`, 하단 기준), 모든 컷 동일 적용 — 군중처럼 프레임에 닿는 컷도 예외 없음.
-- 속마음 등 그림 옆 텍스트는 `python scripts/art_bbox.py img/cutN.png`로 그림 영역을 잰 뒤 그 밖에 놓는다. 프롬프트의 "상단 40% 비움"은 대략만 지켜지고(30~47%), 글자 폭은 폰트마다 달라 눈대중으로 두면 겹친다.
+- `episodes/epNN/compose.html` — 슬라이드 6장을 각각 1080×1350 `<section>`으로. 이미지는 1024×1536 생성본을 중앙 1024×1280 크롭(`object-fit:cover`, `object-position:50% 100%`), **80%로 축소**해 하단 60px·좌우 여백.
+- 폰트: **교보손글씨 2019**, `@font-face`는 `assets/fonts.html`에서 복사.
+- 표지(slide1): 시리즈명 `.series`(top 40px, 34px 회색) + 제목 상단 가운데 큰 글씨(72px 내외, 2~3줄), 핵심 구절 `<b>`로 포인트 컬러 볼드. 두부 그림 아래.
+- 특징 컷(slide2~6): 상단에 `N. 특징 문장` **56px** 가운데 정렬, 긴 줄은 그 슬라이드만 자동 축소. 대사·속마음 **40px** 회색, 박스 없이 캐릭터 옆 — `python scripts/art_bbox.py img/cutN.png`로 그림 영역을 잰 뒤 그 밖에 놓는다.
+- 마지막 슬라이드 하단(bottom 44px)에 CTA 40px 볼드 포인트 컬러, 양옆 활자 `♥`: "당신 곁의 두부를 태그해 주세요". 스타일은 `episodes/ep03/compose.html`의 `.cta`.
+- Playwright MCP로 각 `<section>`을 `img/slideN.png`(N=1..6)로 스크린샷 (viewport 1080×1350, `clip`). MCP 브라우저 사용 중이면 `python scripts/shoot_slides.py epNN`.
 
 ## 4. 산출물과 마무리
 
 ```
 episodes/epNN/
-  conti.md        제목·컷별 [장면 / 내레이션 / 속마음 / 프롬프트 요점]
+  conti.md        제목·컷별 [장면 / 특징 / 대사 / 프롬프트 요점]
   review.md       Codex 독립 리뷰 + 반영/기각 표기
-  prompts/cutN.txt
-  img/cutN.png, slideN.png
+  prompts/coverN.txt, cutN.txt
+  img/cover.png, cutN.png, slideN.png
   compose.html
-  preview.html    슬라이드 7장 세로 나열 (모바일 확인용)
-  caption.txt     한 줄 후킹 질문 "[제목]을 가진 당신, 오늘도 ○○하진 않았나요?" → 해시태그 (내레이션 전문 넣지 않음)
+  preview.html    슬라이드 6장 세로 나열 (모바일 확인용)
+  caption.txt     한 줄 질문 "몇 개나 해당되나요?" + 특징 5개 목록 → 해시태그
 ```
 
 - 고정 해시태그: `#작은힘에도작은책임은따른다 #인스타툰 #일상툰 #공감툰` (MBTI 관련 태그 없음)
@@ -95,9 +58,9 @@ episodes/epNN/
 
 ## 5. 체크리스트 (커밋 전)
 
-- [ ] 제목이 단점을 능력처럼 말하는가, 1컷 내레이션에 초능력 이름이 그대로 들어가 포인트 컬러 볼드로 강조됐는가
-- [ ] 단점 첫 등장 컷이 친구에게 보낼 만큼 구체적인가 / 컷마다 웃음 포인트가 있는가 / 마지막 컷이 저장할 만한 한 문장인가
-- [ ] 생성 이미지에 글자·말풍선이 없는가, 캐릭터 색·눈·입 없음·상대 크기가 유지되는가, 접지 그림자가 전 컷에 있고 몸에 명암은 없는가
+- [ ] 제목이 단점을 능력처럼 말하고 표지에서 핵심 구절이 포인트 컬러 볼드인가
+- [ ] 특징 5개가 각각 친구에게 보낼 만큼 구체적이고, 그림만 봐도 웃긴가
+- [ ] 생성 이미지에 글자·말풍선·먹구름이 없는가, 캐릭터 색·눈·입 없음·상대 크기가 유지되는가, 접지 그림자가 있고 몸에 명암은 없는가
 - [ ] 정면 구도가 3컷 이하이고 같은 구도가 연속되지 않는가
-- [ ] 7장 전부 1080×1350, 텍스트가 잘리지 않는가
+- [ ] 6장 전부 1080×1350, 텍스트가 잘리지 않는가
 - [ ] 쓴 밈이 `memes.md`→`memes-used.md`로 이관됐는가

diff --git a/assets/characters.md b/assets/characters.md
@@ -1,4 +1,4 @@
-# 캐릭터 기획 — 확정 캐스트 7인
+# 캐릭터 기획 — 확정 캐스트 8인
 
 매 편 같은 캐릭터가 나온다. 주인공은 양 두부 1명, 중성적이지만 여자에 가까운 느낌. 시각 검토: [cast.html](https://willowttg.github.io/superwebtoon/assets/cast.html)
 
@@ -9,11 +9,11 @@
 | 요소 | 기준 |
 |---|---|
 | 비율 | 2등신. 감자형 몸통에 머리가 몸보다 큼. 팔다리는 짧은 돌기 |
-| 얼굴 | 코는 작은 점(조류는 부리), **입 없음, 볼터치 없음**, 리본·속눈썹 금지. 캐릭터별 **기본 얼굴** 고정 — 두부: 점 눈 + 걱정 눈썹 2획(안쪽 올라감) / 미숙: 점 눈 + 낮게 깔린 일자 눈썹 / 덕수: 대시 눈(무표정) / 콩: 웃는 호 눈 / 탱자: 하이라이트 있는 초롱초롱 눈 / 소라: 내리깐 점 눈 + 밀착한 날개 / 밤톨: 점 눈 + 브릿지만 있는 동그란 안경(귀걸이 없음). 눈썹·안경은 모든 도에 유지하고, 눈 모양은 감정에 따라 초롱초롱·`>.<`·호·대시로 바뀌어도 된다. 자세는 과장·코믹 허용, 컷마다 비율이 완벽히 같을 필요 없음 |
+| 얼굴 | 코는 작은 점(조류는 부리), **입 없음, 볼터치 없음**, 리본·속눈썹 금지. 캐릭터별 **기본 얼굴** 고정 — 두부: 점 눈 + 걱정 눈썹 2획(안쪽 올라감) / 할머니: 웃는 호 눈 + 쪽 머리 / 미숙: 점 눈 + 낮게 깔린 일자 눈썹 / 덕수: 대시 눈(무표정) / 콩: 웃는 호 눈 / 탱자: 하이라이트 있는 초롱초롱 눈 / 소라: 내리깐 점 눈 + 밀착한 날개 / 밤톨: 점 눈 + 브릿지만 있는 동그란 안경(귀걸이 없음). 눈썹·안경은 모든 도에 유지하고, 눈 모양은 감정에 따라 초롱초롱·`>.<`·호·대시로 바뀌어도 된다. 자세는 과장·코믹 허용, 컷마다 비율이 완벽히 같을 필요 없음 |
 | 선 | 검정 펠트펜 굵은 선, 매끈한 단색(입자·끊김·얼룩 없음), 흔들림은 경로에만, 굵기 불균일, 닫힌 외곽선 |
 | 채색 | 플랫, 몸에 명암 없음. **바디 단색**, 무늬·반점·마커 없음. 식별은 실루엣(종)과 크기로만. 발밑에 납작한 연회색 타원 **접지 그림자 1개** (EP.03부터, EP.01·02는 없음) |
-| 배경 | 흰색. 소품 1~2개 |
-| 감정 기호 | 땀방울·반짝이·작은 먹구름·하트. 초능력 컷은 망토 + 포인트 컬러 `#C77B3F` |
+| 배경 | 흰색. 소품 1~2개로 장소를 표현 |
+| 감정 기호 | 땀방울·눈물·반짝이·하트·낙서 소용돌이·세로 그늘선. **먹구름 금지.** 표지의 두부는 망토 + 포인트 컬러 `#C77B3F` |
 
 ## 1. 확정 캐스트
 
@@ -28,6 +28,7 @@ MBTI는 설계용이며 **작품 안(표지·컷·캡션·해시태그 어디에
 | 친구 1 | **탱자** | 오리 (부리·발 `#F0A83A`) | ENFP | 100 | `#F5E08C` | 외향, 오지랖, 시끄럽고 밝음. 주인공을 밖으로 끌어냄 | "오지랖은 온 동네를 지키는 초능력" |
 | 친구 2 | **소라** | 펭귄 (부리·발 `#E8B24A`) | ISFP | 100 | `#C2C6CA` | 더 조용하고 소심. 초능력 **발동 대상**이자 주인공을 알아봐 주는 유일한 사람 | 서로의 초능력을 아는 둘 |
 | 남친 | **밤톨** | 고슴도치 (단색, 가시는 외곽선 톱니만) | ENTJ | 105 | `#C9A582` | 겉은 가시, 속은 부드러움. 계획 세워 주고 결정 대신 해 주는 T. 안으면 찔림 | "너 T야?" 커플 편, 고슴도치 딜레마 |
+| 할머니 | **할머니** (이름 없음) | 사슴 (뿔 없음, 쪽 머리, 살짝 굽은 등) | — | 100 | `#EBCAC1` | 자비롭게 웃으며 끝없이 줌. 거절할 수 없는 호의 | 할머니집 가면 배탈남 |
 
 컬러는 생성 결과 실측값. 오리(채도↑)·고슴도치(명도↓)만 시트 값에서 조정했고 근거는 cast.html.
 
@@ -42,14 +43,14 @@ MBTI는 설계용이며 **작품 안(표지·컷·캡션·해시태그 어디에
 
 ## 2. 캐스트 운용 규칙
 
-- 한 편의 초능력은 주인공 것. 조연은 단점이 드러나는 상황과 발동 대상을 공급한다.
-- 콩·탱자·밤톨은 대비(눈치 없음·외향·T), 소라는 동질(더 소심), 엄마·아빠는 세대 반전 소재.
-- 크기는 실제 동물이 아니라 역할 기준(주인공 100: 아빠 110 / 엄마 105 / 남친 105 / 동생·친구 100). 비교 기준은 귀·뿔·털을 뺀 **눈높이→발끝 거리**. 가족 식별도 이 크기로. "같은 색 계열" 규칙 없음.
+- 한 편의 초능력은 주인공 것. 조연은 그 특징이 드러나는 상황을 공급한다.
+- 콩·탱자·밤톨은 대비(눈치 없음·외향·T), 소라는 동질(더 소심), 엄마·아빠·할머니는 가족 소재.
+- 크기는 실제 동물이 아니라 역할 기준(주인공 100: 아빠 110 / 엄마 105 / 남친 105 / 동생·친구·할머니 100). 비교 기준은 귀·뿔·털을 뺀 **눈높이→발끝 거리**. 가족 식별도 이 크기로. "같은 색 계열" 규칙 없음.
 - CTA는 캐릭터 이름을 정체성 태그로: "당신 곁의 두부를 태그해 주세요" → 댓글에서 "나 완전 두부 / 넌 탱자지" 식 자기 분류.
 - 이름은 두 글자 이내 음식·사물 계열 (탱자·밤톨 예외 허용).
 
 ## 3. 시트와 참조 입력
 
-- 시트 7장: `assets/samples/{dubu,misook,deoksu,kong,tangja,sora,bamtol}-sheet.png` (각 턴어라운드 4 + 성격별 코믹 포즈 8. 제작은 정면·측면 선 샘플 `<이름>-line-sample.png` 먼저 → 그 샘플 + 깜자 1장(선 스타일 참조)으로 시트. 2026-09-22 연필 가는 선을 시도했으나 굵은 선이 더 어울려 되돌림) ([cast-sheets.html](https://willowttg.github.io/superwebtoon/assets/samples/cast-sheets.html)). 소품 없음 — 망토 등은 에피소드별로 프롬프트에 지정.
+- 시트 8장: `assets/samples/{dubu,misook,deoksu,kong,tangja,sora,bamtol,halmoni}-sheet.png` (각 턴어라운드 4 + 성격별 코믹 포즈 8. 제작은 정면·측면 선 샘플 `<이름>-line-sample.png` 먼저 → 그 샘플 + 깜자 1장(선 스타일 참조)으로 시트. 2026-09-22 연필 가는 선을 시도했으나 굵은 선이 더 어울려 되돌림) ([cast-sheets.html](https://willowttg.github.io/superwebtoon/assets/samples/cast-sheets.html)). 소품 없음 — 망토 등은 컷 프롬프트에 지정. 조연 프롬프트는 `make_cast_prompts.py`에서 생성.
 - 컷 생성 참조 순서: 등장 캐릭터 시트 → 동시 출연이면 `python scripts/lineup.py <이름들> --out episodes/epNN/ref/lineup-<이름들>.png`로 만든 크기 라인업. 깜자 스타일 이미지는 시트 제작에만 쓰고 컷 생성엔 넣지 않는다 (시트가 선 스타일을 담고 있음). 프롬프트에 "the lineup image shows their relative sizes"를 넣는다.
 - 덕수의 뿔은 시트에서 몸보다 진한 갈색으로 나왔고 10도 모두 일관되므로 그대로 확정 (2갈래).

diff --git a/CLAUDE.md b/CLAUDE.md
@@ -1,7 +1,7 @@
 # 작은 힘에도 작은 책임은 따른다
 
-MBTI 유형별로 통용되는 성격적 단점을 긍정적 "초능력"으로 재해석하는 일상 힐링 인스타툰. 주인공은 크림색 양 두부. 캐스트는 assets/characters.md. 작품 안에 MBTI를 드러내지 않는다.
-한 편 = 4~7컷 (설명 1 / 장점·단점 / 마무리 1 — 컷 수는 이야기에 맞춰 정한다). 표지 없음 — 1컷 내레이션의 초능력 이름을 포인트 컬러 볼드로 강조. 목표: 공감 → 위로 → 친구 태그 바이럴.
+MBTI 유형별로 통용되는 성격적 단점을 "초능력자 특징"으로 나열해 공감을 일으키는 인스타툰. 주인공은 크림색 양 두부. 캐스트는 assets/characters.md. 작품 안에 MBTI를 드러내지 않는다.
+한 편 = 표지 1 + 특징 컷 5 = 6장. 표지는 초능력 이름(제목) + 두부 그림, 특징 컷은 특징 한 줄 + 그 특징을 과장한 그림 1장. 컷끼리 서사로 잇지 않는다. 목표: 공감 → 친구 태그 바이럴.
 제작은 `make-episode` 스킬, 배경 기준은 docs/research/ 참조.
 
 ## 지침
